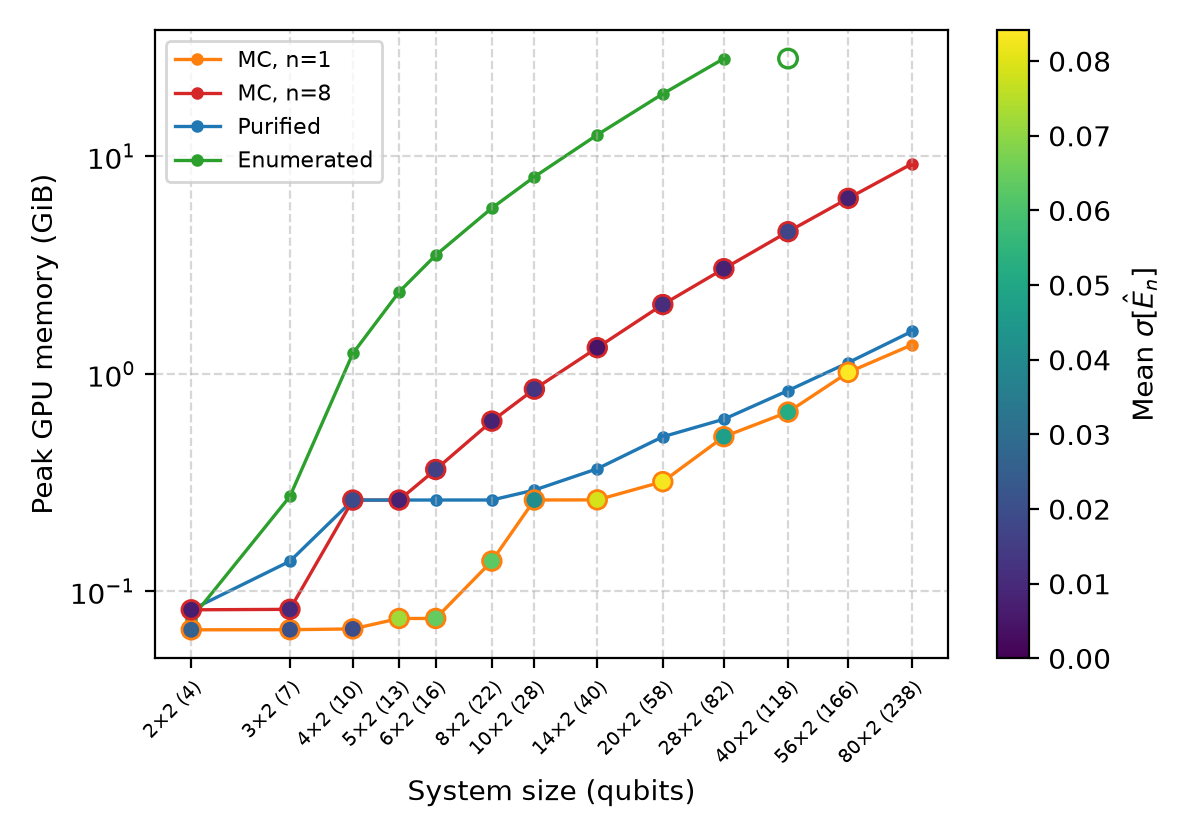
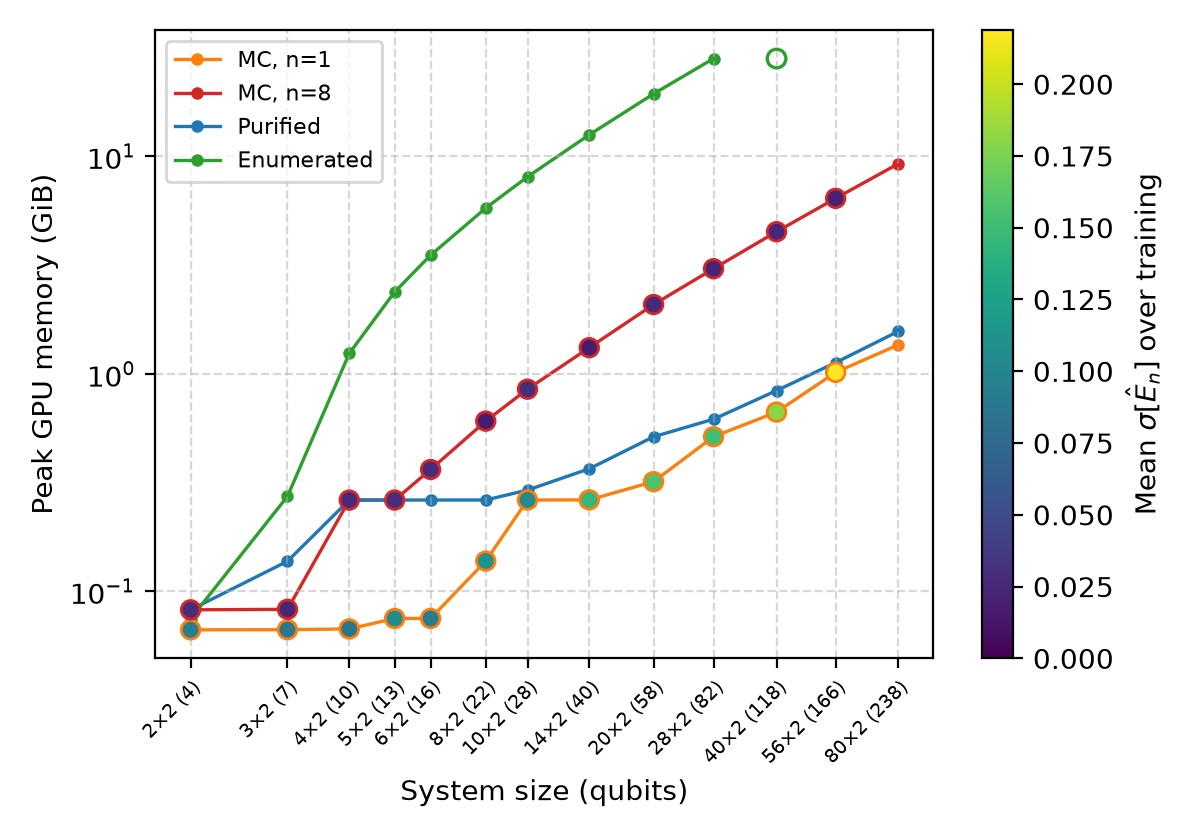
exp1_compare: colour cost plots by sigma averaged over training

diff --git a/src/experiments/exp1_compare.py b/src/experiments/exp1_compare.py
@@ -91,7 +91,8 @@ def size_axis(ax, rows):
 
 def plot_cost_vs_size(rows, out_dir, plt):
     from matplotlib.colors import Normalize
-    sig = [r["final_sigma_mean"] for r in rows if r.get("final_sigma_mean") is not None]
+    # Marker colour: sigma[E_n] averaged over all training snapshots and trials.
+    sig = [r["training_sigma_mean"] for r in rows if r.get("training_sigma_mean") is not None]
     norm = Normalize(vmin=0.0, vmax=max(sig) if sig and max(sig) > 0 else 1.0)
     cmap = plt.get_cmap("viridis")
 
@@ -114,9 +115,9 @@ def plot_cost_vs_size(rows, out_dir, plt):
                         color=colour, lw=1.2, label=label, zorder=1,
                         marker="o", ms=3.5)
                 if m.startswith("mc"):
-                    sig = [r for r in ok if r.get("final_sigma_mean") is not None]
+                    sig = [r for r in ok if r.get("training_sigma_mean") is not None]
                     ax.scatter([r["n_qubits"] for r in sig], [r[key] for r in sig],
-                               c=[r["final_sigma_mean"] for r in sig], cmap=cmap, norm=norm,
+                               c=[r["training_sigma_mean"] for r in sig], cmap=cmap, norm=norm,
                                marker="o", s=45, edgecolors=colour, linewidths=1.0, zorder=2)
             # Failed runs: hollow marker at the failing size, plotted at the
             # method's last successful value so the axis stays meaningful.
@@ -132,7 +133,7 @@ def plot_cost_vs_size(rows, out_dir, plt):
         ax.grid(True, ls="--", alpha=0.5)
         ax.legend(fontsize=8)
         sm = plt.cm.ScalarMappable(norm=norm, cmap=cmap)
-        fig.colorbar(sm, ax=ax, label=r"Mean $\sigma[\hat E_n]$")
+        fig.colorbar(sm, ax=ax, label=r"Mean $\sigma[\hat E_n]$ over training")
         fig.tight_layout()
         fig.savefig(os.path.join(out_dir, fname), dpi=200)
         plt.close(fig)
